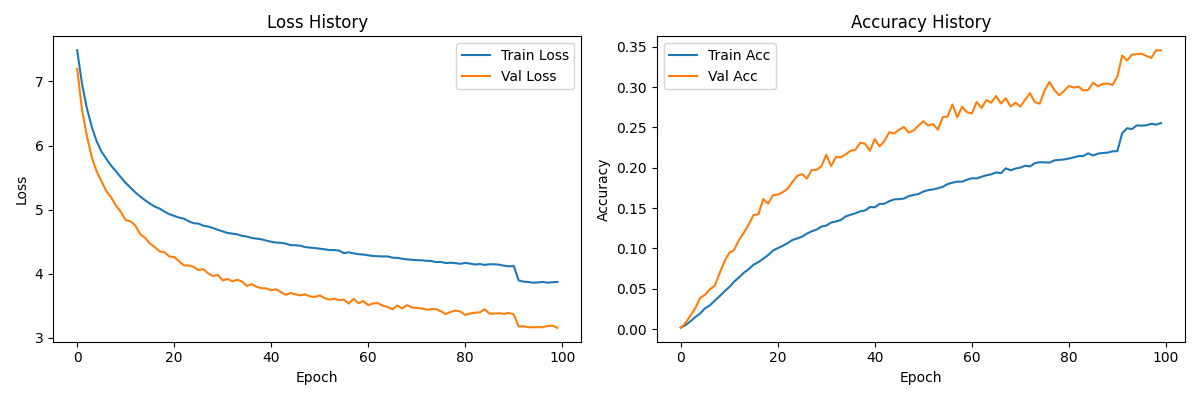
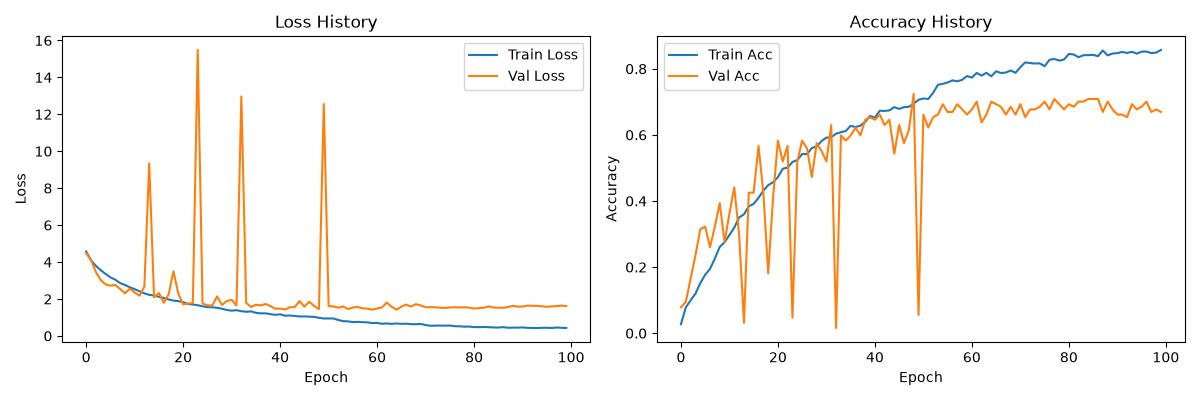
e

diff --git a/model.py b/model.py
@@ -116,13 +116,7 @@ Output: 2208 probabilities (one per sign)
 from tensorflow.keras import layers, models, Input
 from tensorflow.keras.optimizers import *
 
-num_classes = 2208  # Total number of different ASL signs the AI can recognize
-max_frames = 256  # Maximum video length (in frames)
-
-from tensorflow.keras import layers, models, Input
-from tensorflow.keras.optimizers import *
-
-num_classes = 2208  # Total number of different ASL signs the AI can recognize
+num_classes = 101  # Total number of different ASL signs the AI can recognize
 max_frames = 256  # Maximum video length (in frames)
 
 # =============================================================================
@@ -188,7 +182,7 @@ model = models.Model(inputs, outputs)
 
 # Compile the model: Set up how it learns
 model.compile(
-    optimizer=Adam(learning_rate=1.2e-3),  # LR decay handled externally
+    optimizer=Adam(learning_rate=4e-4),  # LR decay handled externally
     loss="sparse_categorical_crossentropy",
     metrics=["accuracy"],
 )

diff --git a/train.py b/train.py
@@ -103,7 +103,7 @@ def train_callback(
 ):
     from model import model
 
-    data = pd.read_csv("data.csv")
+    data = pd.read_csv("ai_data.csv")
     data = data.dropna(subset=["videos"])
 
     videos = data["videos"].astype(str).to_numpy()
@@ -244,5 +244,5 @@ def train_callback(
 
 
 # Not for continuous integration runs, but useful for local testing and experimentation
-# a, b = train_callback(epochs=100, batch_size=256, reduced_training=False, disable_training=False, evaluate_model=False)
+a, b = train_callback(epochs=100, batch_size=32, reduced_training=False, disable_training=True, evaluate_model=True)
 # bestmodel is based on the full 100 epoch training run while CI uses a reduced training run with only 10 epochs and runs on GH actions.
